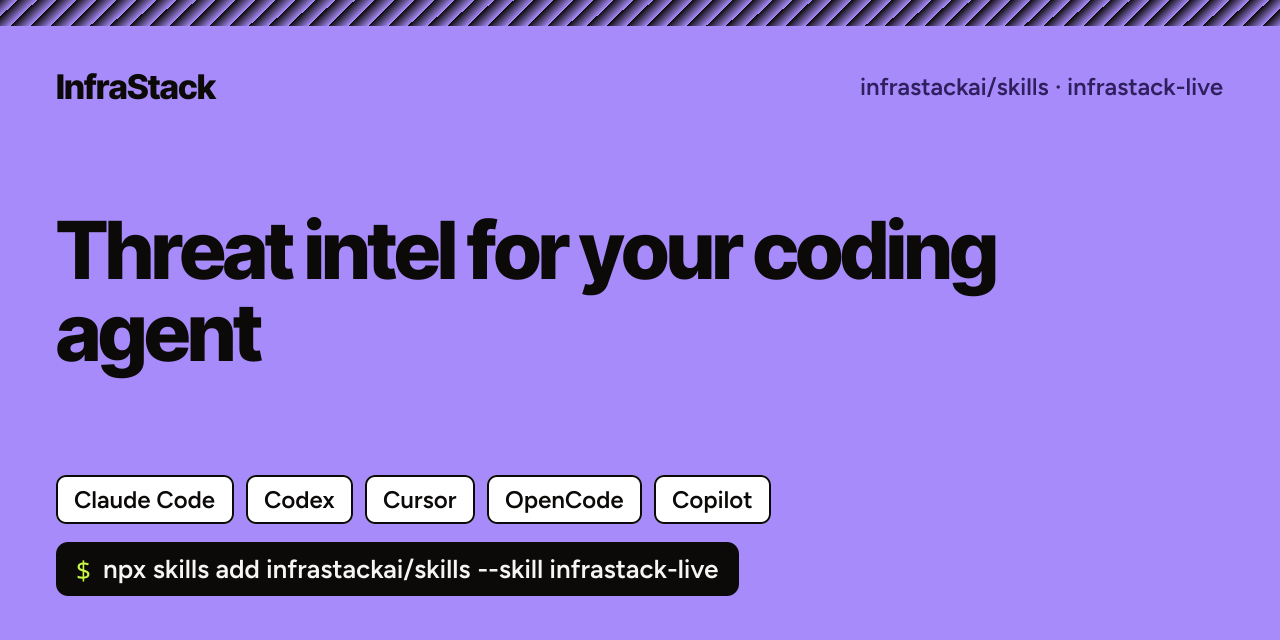
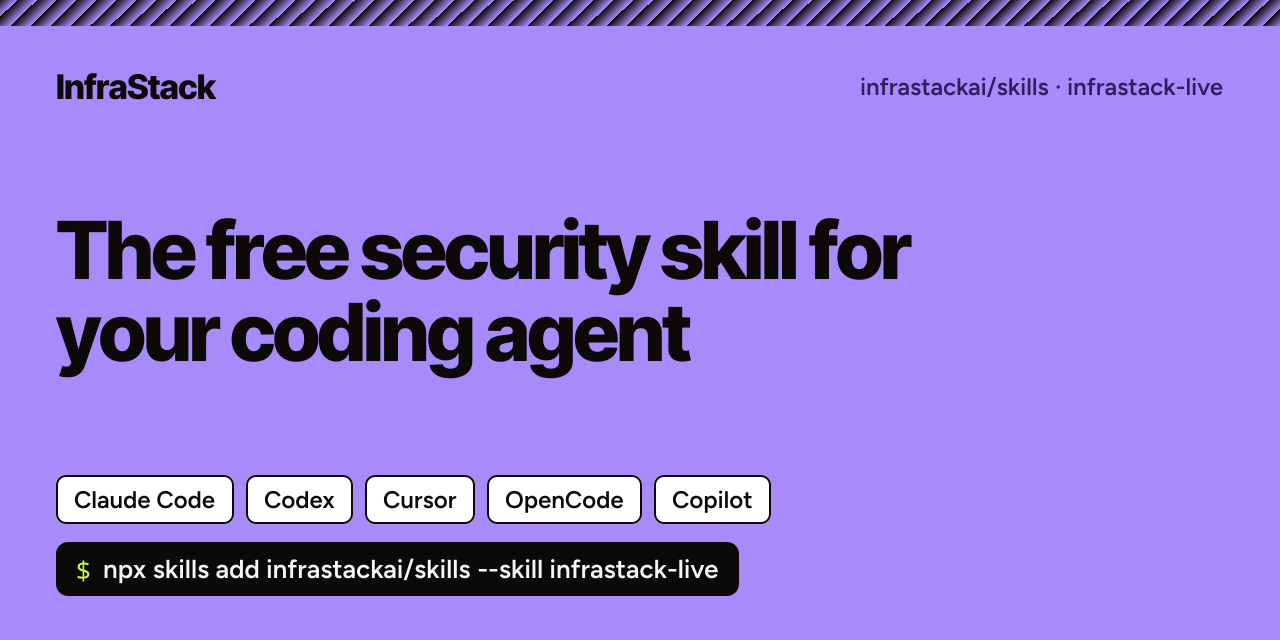
Cover and README: the free security skill for your coding agent

Changed region(s): [[0.0312, 0.3438, 0.7812, 0.5938]]

diff --git a/README.md b/README.md
@@ -1,12 +1,12 @@
 # InfraStack skills
 
-![Threat intel for your coding agent: npx skills add infrastackai/skills --skill infrastack-live](assets/social-preview.png)
+![The free security skill for your coding agent: npx skills add infrastackai/skills --skill infrastack-live](assets/social-preview.png)
 
 Agent skills from [InfraStack](https://infrastack.ai) for Claude Code, Codex, Cursor, OpenCode and GitHub Copilot.
 
 ## infrastack-live
 
-Threat intel for your coding agent. Your agent checks new security threats against your repository: CVEs, exploited bugs, malicious packages, vendor incidents, and attacks on AI coding tools and MCP servers. It checks before it adds or upgrades a dependency, whenever you ask about a CVE or a package, and on a schedule if you ask.
+The free security skill for your coding agent. It checks new security threats against your repository: CVEs, exploited bugs, malicious packages, vendor incidents, and attacks on AI coding tools and MCP servers. It checks before it adds or upgrades a dependency, whenever you ask about a CVE or a package, and on a schedule if you ask.
 
 It reads [InfraStack Live](https://infrastack.ai/live), a free public feed with one markdown page per threat: who is affected, the affected versions, how to check, and the fix. Plain HTTPS. No MCP server, no login, no API key. Your code never leaves your machine; your agent only reads public pages.
 
